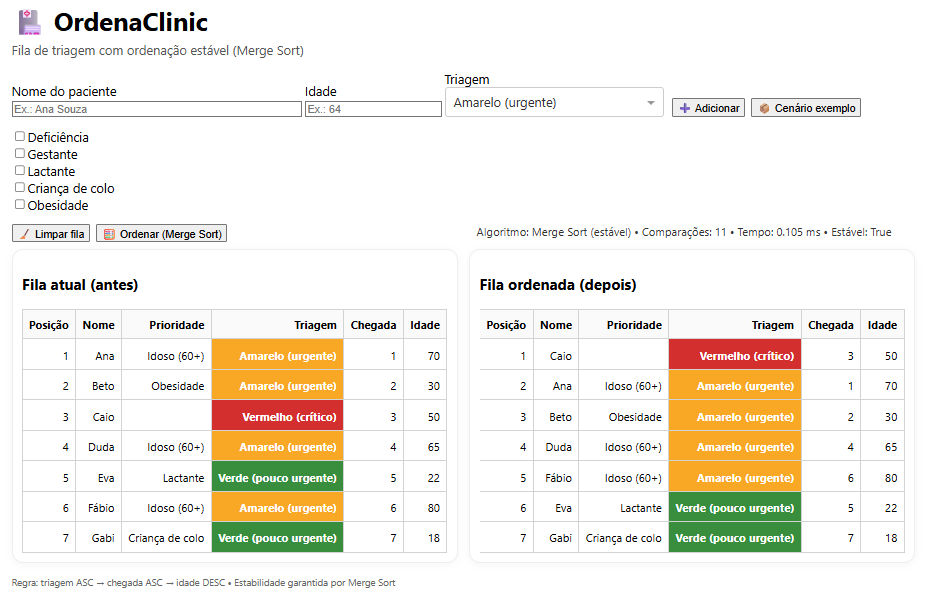
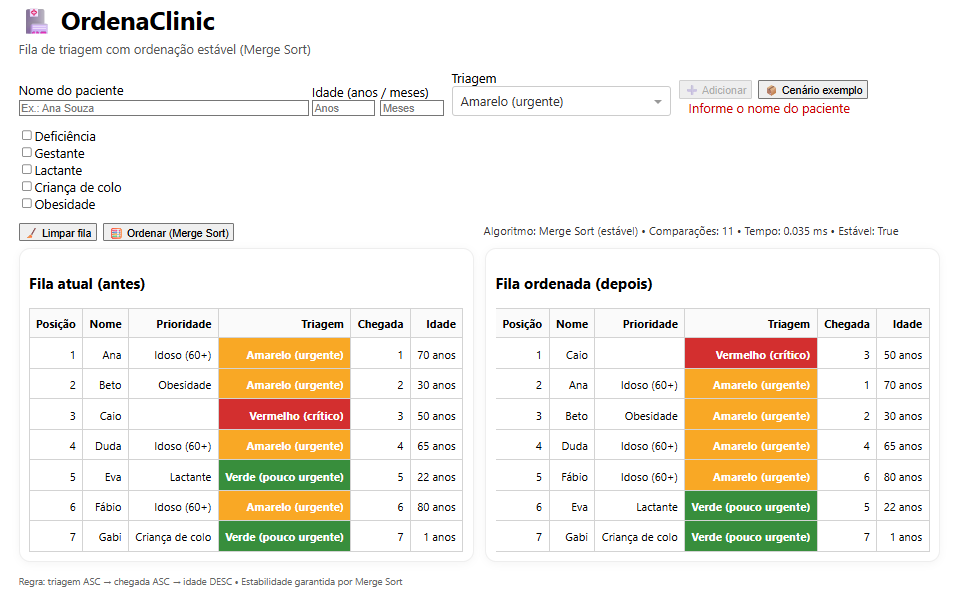
Adições: Correção regra de negócio criança. Co-authored-by: Mayara Alves <amayara939@gmail.com>

diff --git a/ordenaclinic_app.py b/ordenaclinic_app.py
@@ -23,6 +23,7 @@ class Paciente:
     chegada: int
     idade: int
     triagem: int  # 0=Vermelho (mais crítico) ... 4=Azul
+    meses: int = 0
     # Prioridade legal (Lei de atendimento prioritário)
     deficiencia: bool = False
     gestante: bool = False
@@ -58,6 +59,7 @@ def chave_padrao(p: Paciente) -> Tuple[int, int, int, int]:
     Observação: a prioridade legal não sobrescreve casos de emergência/urgência porque triagem tem precedência.
     """
     # determina se o paciente pertence a grupo prioritário pela legislação
+    total_months = (p.idade * 12) + int(getattr(p, "meses", 0))
     possui_prioridade = (
         p.deficiencia or p.gestante or p.lactante or p.crianca_colo or p.obesidade or (p.idade >= 60)
     )
@@ -66,7 +68,8 @@ def chave_padrao(p: Paciente) -> Tuple[int, int, int, int]:
 
     # Em qualquer caso, triagem continua sendo o primeiro critério. A prioridade legal só afeta
     # a ordenação entre pacientes com a mesma triagem (em especial, triagens não urgentes).
-    return (p.triagem, prioridade_flag, p.chegada, -p.idade)
+    # desempate por idade mais preciso: usar total de meses (maiores primeiro)
+    return (p.triagem, prioridade_flag, p.chegada, -total_months)
 
 # ============================
 # Merge Sort estável com métricas
@@ -121,7 +124,7 @@ def merge_sort_estavel(arr: List[Paciente], key=chave_padrao):
 def pacientes_para_df(pacientes: List[Paciente]) -> pd.DataFrame:
     df = pd.DataFrame([asdict(p) for p in pacientes])
     if df.empty:
-        return pd.DataFrame(columns=["posição", "nome", "prioridade", "triagem_label", "chegada", "idade"])
+        return pd.DataFrame(columns=["posição", "nome", "prioridade", "triagem_label", "chegada", "idade_label"])
     df = df.assign(
         triagem_label=df["triagem"].map(TRIAGEM_LABELS),
         triagem_cor=df["triagem"].map(TRIAGEM_CORES),
@@ -145,8 +148,18 @@ def pacientes_para_df(pacientes: List[Paciente]) -> pd.DataFrame:
         return ", ".join(labels)
 
     df = df.assign(prioridade=df.apply(prioridade_label_row, axis=1))
+    # formatar idade como "X anos Y meses"
+    def idade_label_row(row):
+        anos = int(row.get("idade", 0))
+        meses = int(row.get("meses", 0) or 0)
+        if anos <= 0 and meses > 0:
+            return f"{meses} meses"
+        if meses <= 0:
+            return f"{anos} anos"
+        return f"{anos} anos {meses} meses"
+    df = df.assign(idade_label=df.apply(idade_label_row, axis=1))
     # organizar colunas: manter triagem numérica (para regras de estilo), mostrar triagem_label e prioridade
-    df = df[["nome", "prioridade", "triagem", "triagem_label", "triagem_cor", "chegada", "idade"]]
+    df = df[["nome", "prioridade", "triagem", "triagem_label", "triagem_cor", "chegada", "idade_label"]]
     df.insert(0, "posição", range(1, len(df) + 1))
     return df
 
@@ -159,7 +172,7 @@ def tabela_formatada(id_table: str):
             {"name": "Prioridade", "id": "prioridade"},
             {"name": "Triagem", "id": "triagem_label"},
             {"name": "Chegada", "id": "chegada"},
-            {"name": "Idade", "id": "idade"},
+            {"name": "Idade", "id": "idade_label"},
         ],
         data=[],
         style_cell={"padding": "8px", "fontFamily": "Inter, system-ui, Arial", "fontSize": 14},
@@ -229,8 +242,11 @@ app.layout = html.Div(
                     dcc.Input(id="in-nome", type="text", placeholder="Ex.: Ana Souza", style={"width": "100%"}),
                 ]),
                 html.Div([
-                    html.Label("Idade"),
-                    dcc.Input(id="in-idade", type="number", min=0, max=120, placeholder="Ex.: 64", style={"width": "100%"}),
+                    html.Label("Idade (anos / meses)"),
+                    html.Div([
+                        dcc.Input(id="in-idade-anos", type="number", min=0, max=120, placeholder="Anos", style={"width": "48%", "marginRight": "4%"}),
+                        dcc.Input(id="in-idade-meses", type="number", min=0, max=11, placeholder="Meses", style={"width": "48%"}),
+                    ], style={"display": "flex"}),
                 ]),
                 html.Div([
                     html.Label("Triagem"),
@@ -239,6 +255,7 @@ app.layout = html.Div(
                 html.Div([
                     html.Button("➕ Adicionar", id="btn-add", n_clicks=0, className="btn"),
                     html.Button("📦 Cenário exemplo", id="btn-exemplo", n_clicks=0, style={"marginLeft": "8px"}, className="btn"),
+                    html.Span("", id="add-msg", style={"marginLeft": "12px", "color": "#c00"}),
                 ]),
             ],
         ),
@@ -309,33 +326,44 @@ app.layout = html.Div(
 @app.callback(
     Output("store-pacientes", "data"),
     Output("in-nome", "value"),
-    Output("in-idade", "value"),
+    Output("in-idade-anos", "value"),
+    Output("in-idade-meses", "value"),
     Input("btn-add", "n_clicks"),
     State("in-nome", "value"),
-    State("in-idade", "value"),
+    State("in-idade-anos", "value"),
+    State("in-idade-meses", "value"),
     State("in-triagem", "value"),
     State("in-prioridades", "value"),
     State("store-pacientes", "data"),
     prevent_initial_call=True,
 )
-def add_paciente(n, nome, idade, triagem, prioridades, store):
-    if not n or not nome or idade is None:
+def add_paciente(n, nome, idade_anos, idade_meses, triagem, prioridades, store):
+    if not n or not nome or idade_anos is None:
         return no_update, no_update, no_update
     lista = [Paciente(**p) for p in store["lista"]]
     seq = int(store.get("seq_chegada", 0)) + 1
     flags = set(prioridades or [])
-    idade_int = int(idade)
+    idade_int = int(idade_anos)
+    meses_int = int(idade_meses or 0)
     # regra: não permitir gestante e lactante se idade >= 60 (idoso)
     if idade_int >= 60 and "gestante" in flags:
         flags.discard("gestante")
     if idade_int >= 60 and "lactante" in flags:
         flags.discard("lactante")
+    # regra: se for criança de colo, não pode ser gestante nem lactante
+    if "crianca_colo" in flags:
+        flags.discard("gestante")
+        flags.discard("lactante")
+    # regra: criança de colo permitida até 3 anos (<= 36 meses)
+    if (idade_int * 12 + meses_int) > 36 and "crianca_colo" in flags:
+        flags.discard("crianca_colo")
 
     novo = Paciente(
         id=int(datetime.utcnow().timestamp() * 1000000) % 10**9,
         nome=nome.strip(),
         chegada=seq,
         idade=idade_int,
+        meses=meses_int,
         triagem=int(triagem),
         deficiencia="deficiencia" in flags,
         gestante="gestante" in flags,
@@ -344,7 +372,7 @@ def add_paciente(n, nome, idade, triagem, prioridades, store):
         obesidade="obesidade" in flags,
     )
     lista.append(novo)
-    return {"lista": [asdict(p) for p in lista], "seq_chegada": seq}, "", None
+    return {"lista": [asdict(p) for p in lista], "seq_chegada": seq}, "", None, None
 
 @app.callback(
     Output("store-pacientes", "data", allow_duplicate=True),
@@ -355,13 +383,13 @@ def exemplo(n):
     if not n:
         return no_update
     exemplo_dados = [
-        Paciente(1, "Ana", 1, 70, 1, deficiencia=False, gestante=False, lactante=False, crianca_colo=False, obesidade=False),
-        Paciente(2, "Beto", 2, 30, 1, deficiencia=False, gestante=False, lactante=False, crianca_colo=False, obesidade=True),
-        Paciente(3, "Caio", 3, 50, 0, deficiencia=False, gestante=False, lactante=False, crianca_colo=False, obesidade=False),
-        Paciente(4, "Duda", 4, 65, 1, deficiencia=False, gestante=False, lactante=False, crianca_colo=False, obesidade=False),
-        Paciente(5, "Eva", 5, 22, 2, deficiencia=False, gestante=False, lactante=True, crianca_colo=False, obesidade=False),
-        Paciente(6, "Fábio", 6, 80, 1, deficiencia=False, gestante=False, lactante=False, crianca_colo=False, obesidade=False),
-        Paciente(7, "Gabi", 7, 18, 2, deficiencia=False, gestante=False, lactante=False, crianca_colo=True, obesidade=False),
+        Paciente(1, "Ana", 1, 70, 1, 0, deficiencia=False, gestante=False, lactante=False, crianca_colo=False, obesidade=False),
+        Paciente(2, "Beto", 2, 30, 1, 0, deficiencia=False, gestante=False, lactante=False, crianca_colo=False, obesidade=True),
+        Paciente(3, "Caio", 3, 50, 0, 0, deficiencia=False, gestante=False, lactante=False, crianca_colo=False, obesidade=False),
+        Paciente(4, "Duda", 4, 65, 1, 0, deficiencia=False, gestante=False, lactante=False, crianca_colo=False, obesidade=False),
+        Paciente(5, "Eva", 5, 22, 2, 0, deficiencia=False, gestante=False, lactante=True, crianca_colo=False, obesidade=False),
+        Paciente(6, "Fábio", 6, 80, 1, 0, deficiencia=False, gestante=False, lactante=False, crianca_colo=False, obesidade=False),
+        Paciente(7, "Gabi", 7, 1, 2, 0, deficiencia=False, gestante=False, lactante=False, crianca_colo=True, obesidade=False),
     ]
     seq = max(p.chegada for p in exemplo_dados)
     return {"lista": [asdict(p) for p in exemplo_dados], "seq_chegada": seq}
@@ -416,11 +444,16 @@ def render_depois(store_ord):
 @app.callback(
     Output("in-prioridades", "options"),
     Output("in-prioridades", "value"),
-    Input("in-idade", "value"),
-    State("in-prioridades", "value"),
+    Input("in-idade-anos", "value"),
+    Input("in-idade-meses", "value"),
+    Input("in-prioridades", "value"),
 )
-def ajustar_prioridades_por_idade(idade, current_vals):
-    """Desabilita e desmarca 'Gestante' quando idade >= 60."""
+def ajustar_prioridades_por_idade(idade_anos, idade_meses, current_vals):
+    """Desabilita e desmarca opções inválidas conforme idade em anos/meses e seleção de prioridades.
+
+    Regras adicionais:
+    - Se 'crianca_colo' estiver marcada, então 'gestante' e 'lactante' são inválidas e serão removidas.
+    """
     base = [
         {"label": "Deficiência", "value": "deficiencia"},
         {"label": "Gestante", "value": "gestante"},
@@ -428,25 +461,72 @@ def ajustar_prioridades_por_idade(idade, current_vals):
         {"label": "Criança de colo", "value": "crianca_colo"},
         {"label": "Obesidade", "value": "obesidade"},
     ]
-    if idade is None:
-        return base, current_vals or []
     try:
-        idade_int = int(idade)
+        anos = int(idade_anos) if idade_anos is not None else None
+        meses = int(idade_meses) if idade_meses is not None else 0
     except Exception:
         return base, current_vals or []
 
-    if idade_int >= 60:
-        # desabilita a opção gestante e remove de current_vals se presente
-        opts = []
-        for o in base:
-            if o["value"] in ("gestante", "lactante"):
-                opts.append({**o, "disabled": True})
-            else:
-                opts.append(o)
-        vals = [v for v in (current_vals or []) if v not in ("gestante", "lactante")]
-        return opts, vals
-    # idade < 60 -> garantir opção habilitada
-    return base, current_vals or []
+    if anos is None:
+        return base, current_vals or []
+
+    total_months = anos * 12 + meses
+
+    # lógica para gestante/lactante/creche
+    opts = []
+    for o in base:
+        val = o["value"]
+        disabled = False
+        # desabilitar gestante/lactante para idosos (>=60 anos)
+        if anos >= 60 and val in ("gestante", "lactante"):
+            disabled = True
+        # desabilitar crianca_colo se total_months > 36 (permitimos até 36 meses)
+        if val == "crianca_colo" and total_months > 36:
+            disabled = True
+        # se crianca_colo estiver marcada, gestante/lactante são inválidas
+        if "crianca_colo" in (current_vals or []) and val in ("gestante", "lactante"):
+            disabled = True
+        opts.append({**o, "disabled": disabled} if disabled else o)
+    vals = list(current_vals or [])
+    # remover gestante/lactante se idosos ou se crianca_colo estiver selecionada
+    if anos >= 60 or "crianca_colo" in (current_vals or []):
+        vals = [v for v in vals if v not in ("gestante", "lactante")]
+    # remover crianca_colo se > 36 meses
+    if total_months > 36:
+        vals = [v for v in vals if v != "crianca_colo"]
+    return opts, vals
+
+
+@app.callback(
+    Output("btn-add", "disabled"),
+    Output("add-msg", "children"),
+    Input("in-nome", "value"),
+    Input("in-idade-anos", "value"),
+    Input("in-idade-meses", "value"),
+)
+def validar_form(nome, anos, meses):
+    # Nome obrigatório
+    if not nome or not str(nome).strip():
+        return True, "Informe o nome do paciente"
+    # anos must be integer >= 0
+    try:
+        anos_int = int(anos)
+        if anos_int < 0:
+            return True, "Idade inválida"
+    except Exception:
+        return True, "Informe a idade (anos)"
+    # meses must be between 0 and 11
+    if meses is None:
+        meses_int = 0
+    else:
+        try:
+            meses_int = int(meses)
+        except Exception:
+            return True, "Meses inválidos"
+    if meses_int < 0 or meses_int > 11:
+        return True, "Meses deve estar entre 0 e 11"
+    # all good
+    return False, ""
 
 # ============================
 # Main
